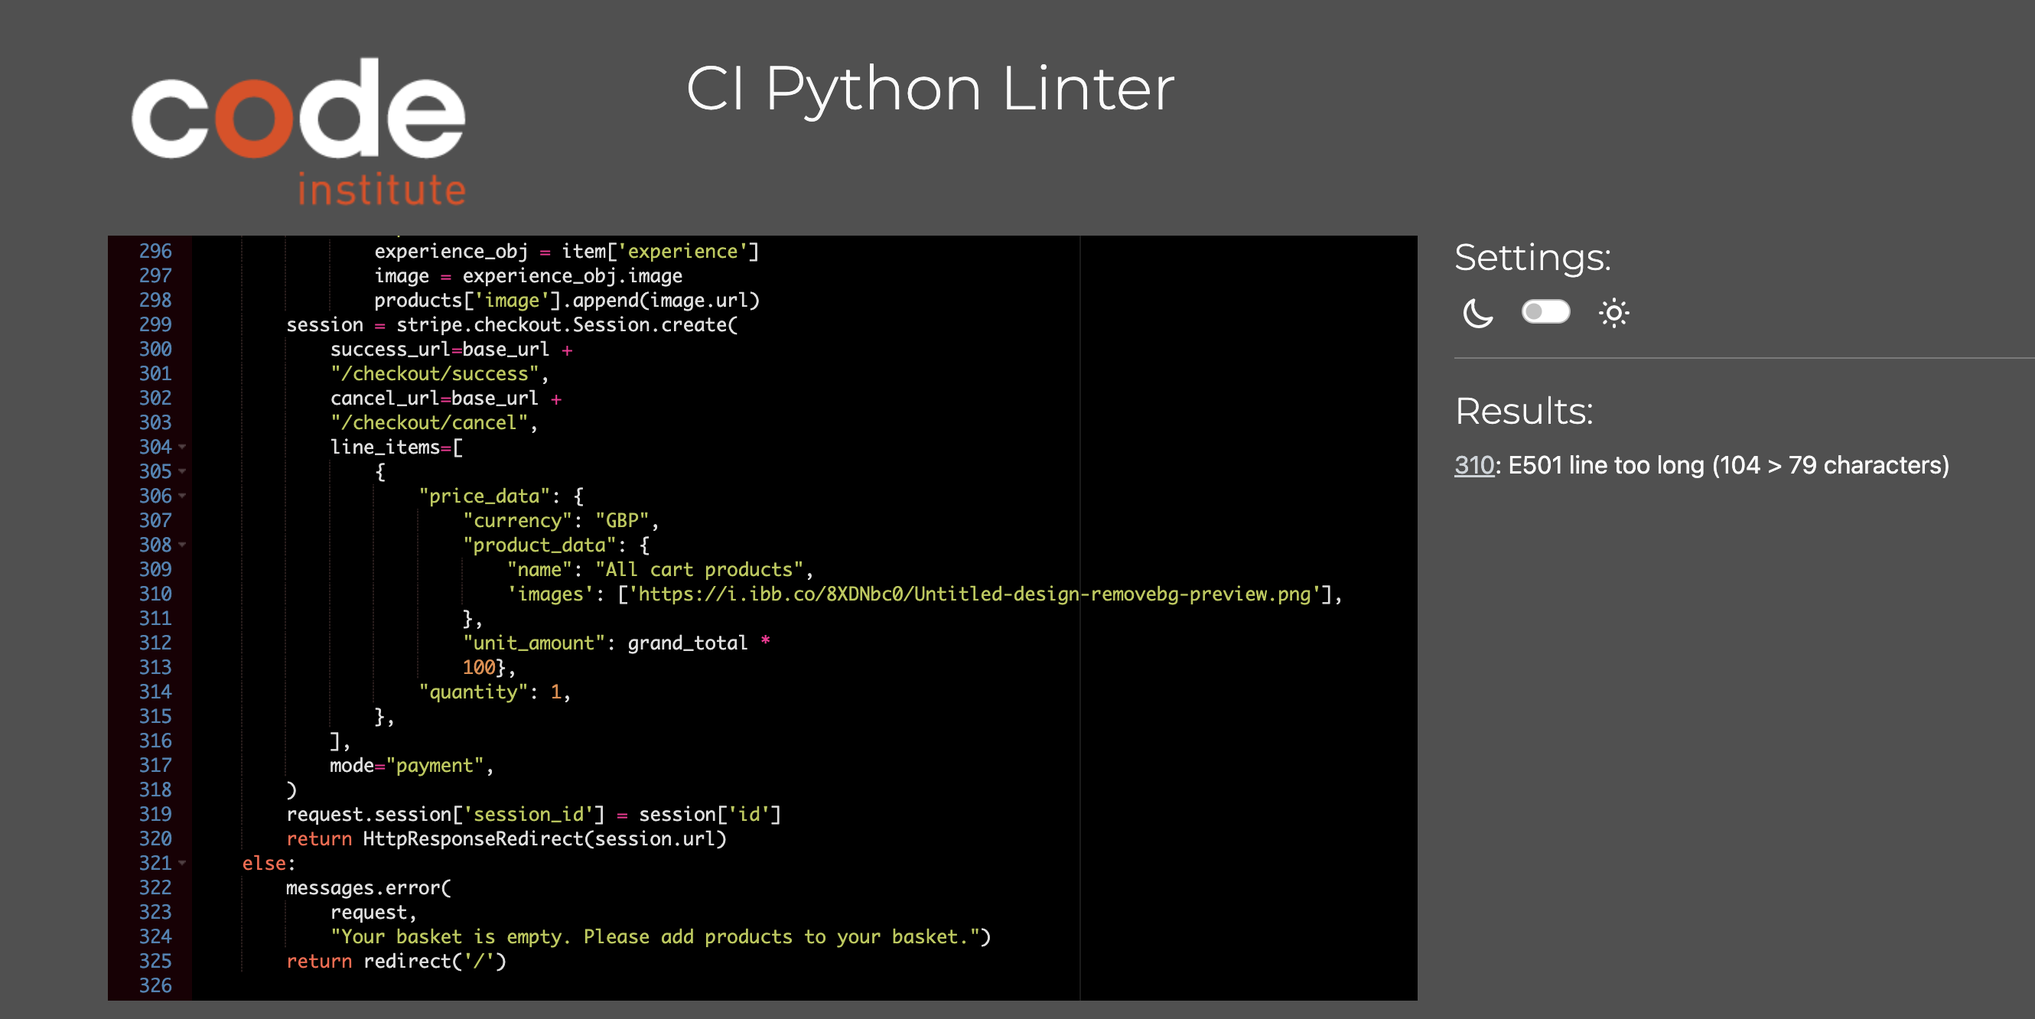
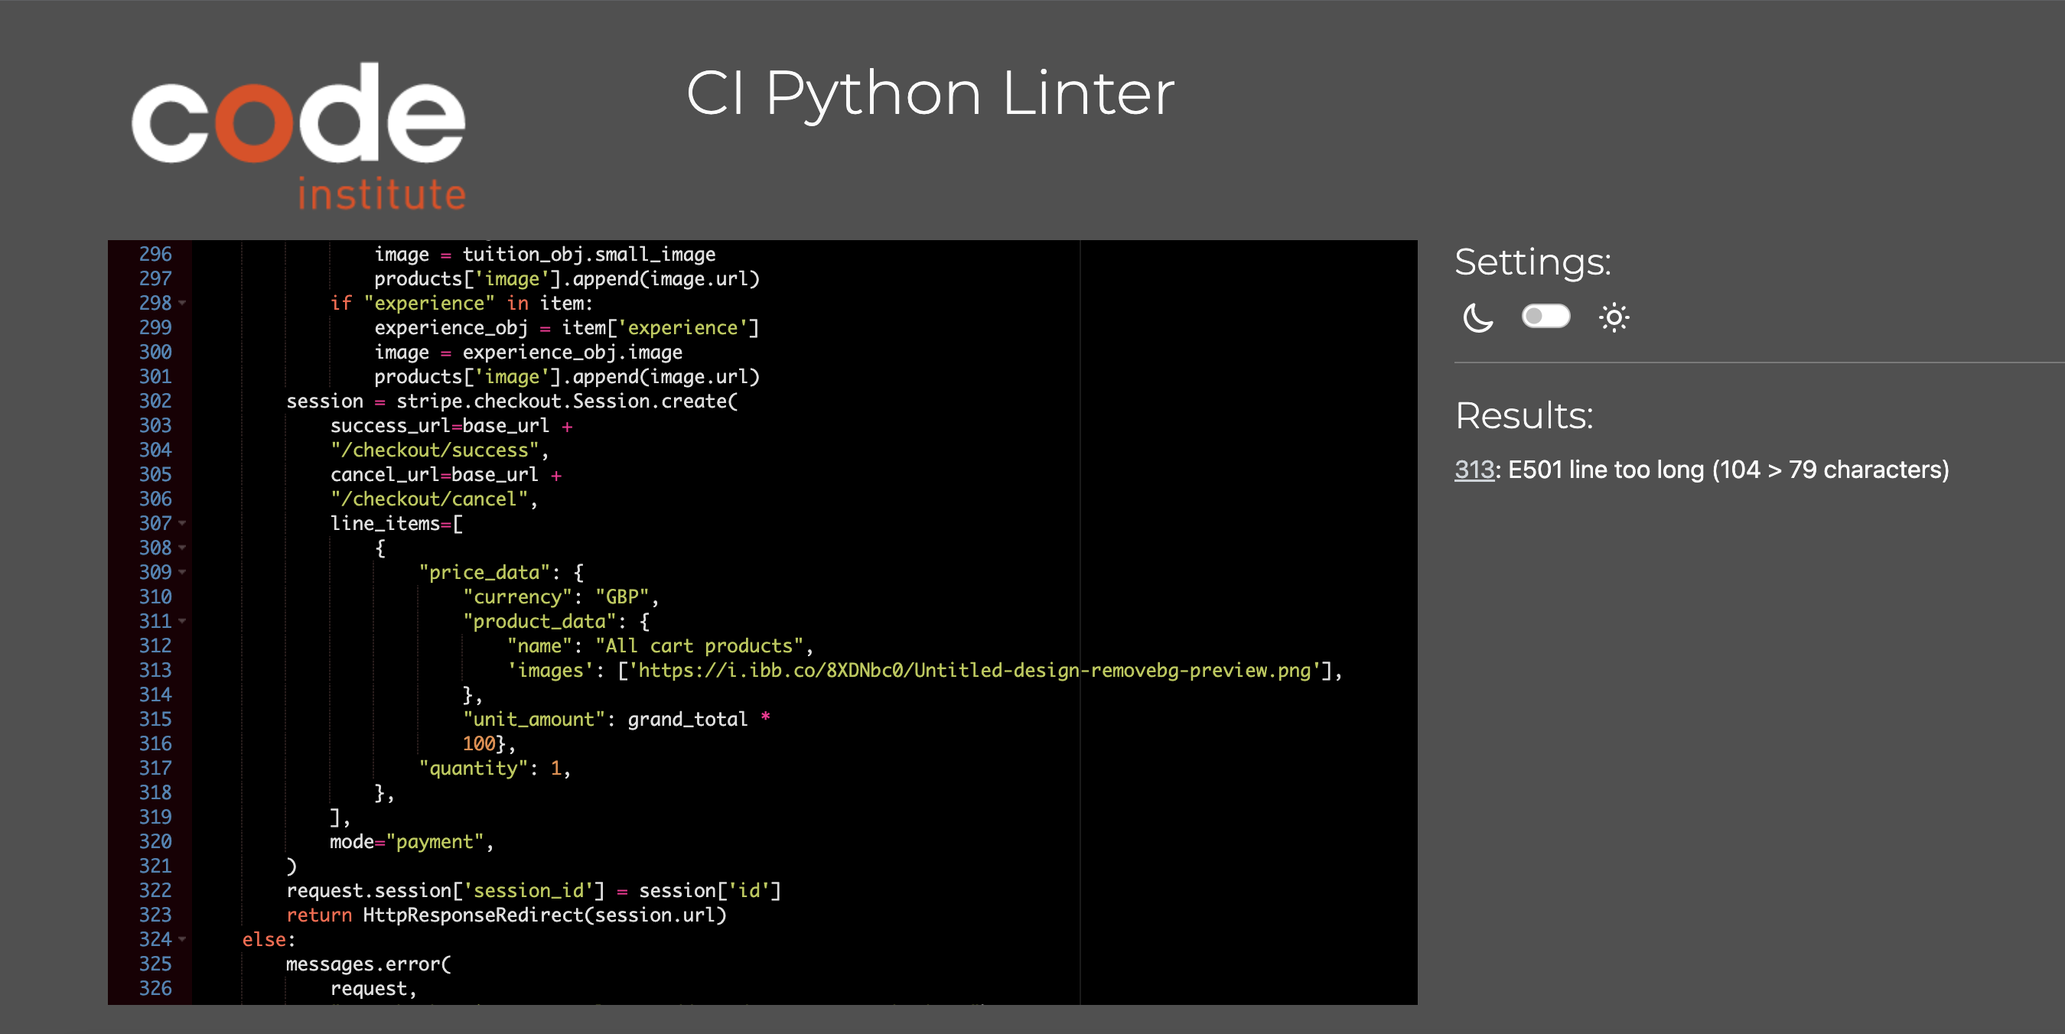
add success messages when items added to basket, add more features images, develope design section in readme

diff --git a/checkout/views.py b/checkout/views.py
@@ -115,6 +115,7 @@ def add_trackday_to_basket(request, trackday_id):
         # save the booking
         booking.save()
         quantity = 1
+        messages.success(request, "A trackday has been added to the basket.")
 
         if trackday_id in list(basket.keys()):
             basket['trackday'][trackday_id] += quantity
@@ -169,6 +170,7 @@ def add_exp_to_basket(request, experience_id):
         basket['experience'][experience_id] = quantity
 
     request.session['basket'] = basket
+    messages.success(request, "An experience has been added to the basket.")
     return redirect(redirect_url)
 
 
@@ -188,6 +190,7 @@ def add_tuition_to_basket(request, tuition_id):
         basket['tuition'][tuition_id] = quantity
 
     request.session['basket'] = basket
+    messages.success(request, "A tuition course has been added to the basket.")
     return redirect(redirect_url)
 
 

diff --git a/README.md b/README.md
@@ -344,8 +344,8 @@ Below is a comprehensive list of the site features and their relations to the us
     - has a middle nav which serves as the main navigation of the site
     - contains a company logo that redirects to the home page when clicked on
 
-    ![Top Nav]()
-    ![Middle Nav]()
+    ![Top Nav](/static/images/features/top-nav.png)
+    ![Middle Nav](/static/images/features/middle-nav.png)
 
     `` User Story: As a Site User I can use a Nav Bar so that I can Navigate to the desired page.``
 
@@ -360,7 +360,8 @@ Below is a comprehensive list of the site features and their relations to the us
     - hosts the middle nav beneath the carousel to encourage the user to scroll down the home page and see more content
     - serves as the entry page and point of reference for everything on the site
 
-    ![Home Page]()
+    ![Home Page](/static/images/features/home-top.png)
+    ![Home Page](/static/images/features/home-middle.png)
 
     `` User Story: As a Site User I can view a home page so that I can have a starting point from which I can navigate the site.``
 
@@ -375,7 +376,7 @@ Below is a comprehensive list of the site features and their relations to the us
     - Contains a prompt to sign up to the Django Raceway Newsletter
     - An up-arrow button to return to the top of the page
 
-    ![Footer]()
+    ![Footer](/static/images/features/footer.png)
 
     `` User Story: As a Site User I can view a footer bar so that I can view Policies, FAQs or subscribe to a motorsport newsletter.``
 
@@ -389,8 +390,8 @@ Below is a comprehensive list of the site features and their relations to the us
     - Contains 8 High Quality images of cars driving on track
     - Can be clicked on to open, moved to previous or next images, or closed with an 'x' 
 
-    ![Gallery]()
-    ![]()
+    ![Gallery](/static/images/features/gallery.png)
+    ![Gallery Image Open](/static/images/features/gallery-image-open.png)
 
     `` User Story: As a Site Visitor I can view a gallery of images so that I can get a visual understanding of what a track day looks like.``
 
@@ -407,11 +408,17 @@ Below is a comprehensive list of the site features and their relations to the us
     - allows users to reset their password if they have forgotten through a supplied email address
     - can keep users signed in with a checkbox option
 
+    ![Sign Up](/static/images/features/sign-up.png)
+    ![Password Reset](/static/images/features/password-reset.png)
+
     ``User Story: As a Site User I can create an account so that I can access user-verified-only benefits and store personal information for future orders.``
     - Acceptance Criteria:
         - When a site visitor is not signed in, a sign up/create account link in the nav can be found where they are redirected to a page to create an account
         - Upon account creation, they will be asked to verify through their email address that they will have had to provide.
         - No more info than is required will be asked for on sign up.
+
+    ![Login](/static/images/features/login.png)
+    ![Logout](/static/images/features/sign-out.png)
 
     ``User Story: As a Site User I can log in and log out so that I can keep my account and details secure. ``
     - Acceptance Criteria:
@@ -423,7 +430,7 @@ Below is a comprehensive list of the site features and their relations to the us
     - Describes the history of the circuit to curious site visitors
     - Inspires site visitor confidence in an experienced and responsible trackday/motorsports business
 
-    ![About Page]()
+    ![About Page](/static/images/features/about.png)
 
     `` User Story: As a Site User I can open an about page so that I can learn more about the company and its history.``
 
@@ -436,7 +443,7 @@ Below is a comprehensive list of the site features and their relations to the us
     - Asks for a full name, email, query type and a message
     - informs the user when their message has been sent successfully
 
-    ![Contact Page]()
+    ![Contact Page](/static/images/features/contact-page.png)
 
     `` User Story: As a Site User I can submit a contact form so that I can get in touch with the business regarding questions I have.``
 
@@ -451,7 +458,7 @@ Below is a comprehensive list of the site features and their relations to the us
     - Shows current trackdays up for booking in a table below, with information such as variant and base price displayed
     - Contains the links to the booking and request pages respectively
 
-    ![Trackdays]()
+    ![Trackdays](/static/images/features/trackdays.png)
 
     `` As a Site User I can visit a booking page so that I can view available/upcoming track days and proceed with a booking.``
 
@@ -466,7 +473,7 @@ Below is a comprehensive list of the site features and their relations to the us
     - allows the option of selecting extras such as car hire and paddock hire
     - users can add their trackday of choice to their basket through the add to basket button at the bottom of the page
 
-    ![Trackday booking/detail page]()
+    ![Trackday booking/detail page](/static/images/features/trackday-booking-page.png)
 
     `` User Story: As a Site User I can select the track day I want and visit a booking page so that I can book my track day with any extras I would like to add.``
 
@@ -481,7 +488,7 @@ Below is a comprehensive list of the site features and their relations to the us
     - contains a form for users to fill in to request a trackday
     - informs users when the form has been successfully submitted
 
-    ![Trackday Request Page]()
+    ![Trackday Request Page](/static/images/features/request-a-trackday.png)
 
     `` User Story: As a Site User I can use a request form so that I can request a bespoke track day booking outside of the current available options.``
 
@@ -498,7 +505,8 @@ Below is a comprehensive list of the site features and their relations to the us
     - the details page contains a description and itinerary of the day
     - price and booking button at the bottom of the page
 
-    ![Tuition]()
+    ![Tuition](/static/images/features/tuition.png)
+    ![Tuition Detail](/static/images/features/tuition-detail-example.png)
 
     `` User Story: As a Potential Customer I can view a tuition page so that I can book a day to learn core driving skills.``
 
@@ -516,7 +524,8 @@ Below is a comprehensive list of the site features and their relations to the us
     - the experience details and itinerary are displayed in the details page
     - price and booking button at the bottom of the page
 
-    ![Experiences]()
+    ![Experiences](/static/images/features/experiences.png)
+    ![Experience Detail](/static/images/features/experience-detail-example.png)
 
     `` User Story: As a Potential Customer I can view a separate experiences page so that I can order a slightly different product to a pure trackday (perhaps as a gift).``
 
@@ -532,7 +541,7 @@ Below is a comprehensive list of the site features and their relations to the us
     - shows a visually appealing list of cars for hire on the trackdays 
     - includes car images and statistics in cards
 
-    ![Car Hire List Page]()
+    ![Car Hire List Page](/static/images/features/carhire.png)
     
     `` User Story: As a Site Visitor I can view a selection of cars so that I can choose a car I might want to hire at an upcoming trackday.``
 
@@ -546,8 +555,8 @@ Below is a comprehensive list of the site features and their relations to the us
     - provides an editable form for users to insert billing information 
     - this section is based on the idea of setting billing information for a future feature of a gift store, where deliveries can be sent to a specified address
 
-    ![User Profile]()
-    ![User Profile]()
+    ![User Profile](/static/images/features/profile.png)
+    ![User Profile](/static/images/features/profile-edit.png)
 
     `` User Story: As a Registered Site User I can save details in my account profile so that I can speed up buying/delivery processes in future.``
 
@@ -559,7 +568,7 @@ Below is a comprehensive list of the site features and their relations to the us
 15. FAQs page that:
     - Contains a list of commonly asked questions that new trackday drivers may want answers to
 
-    ![FAQs Page]()
+    ![FAQs Page](/static/images/features/faqs.png)
 
     `` User Story: As a Site User I can view an FAQs page so that I can see if there are any answers to questions I might have.``
 
@@ -571,7 +580,7 @@ Below is a comprehensive list of the site features and their relations to the us
 16. Policies page that:
     - describes the company policies to users concerned about privacy and data protection
 
-    ![Policies Page]()
+    ![Policies Page](/static/images/features/policies.png)
 
     `` User Story: As a Site User I can find a policies so that I can understand the terms and conditions of the site.``
 
@@ -586,6 +595,9 @@ Below is a comprehensive list of the site features and their relations to the us
     - Has a total cost summary is available including a VAT amount for transparent total costs
     - contains a return to home button to allow users to continue browsing before checking out
 
+    ![Basket (Empty)](/static/images/features/empty-basket.png)
+    ![Basket (With item)](/static/images/features/basket-with-item.png)
+
     `` User Story: As a Site User I can add to and view a basket/cart so that I can view and check my order and make any updates or removals as required before checking out.``
 
     - Acceptance Criteria:
@@ -598,6 +610,8 @@ Below is a comprehensive list of the site features and their relations to the us
     - Allows users a quick and easy checkout process through stripe
     - contains a small form to fill out, where card info and an email address need to be supplied
 
+    ![Checkout](![Basket](/static/images/features/checkout.png)
+
     `` User Story: As a Site User I can checkout so that I can proceed with my order/booking.``
 
     - Acceptance Criteria:
@@ -608,6 +622,8 @@ Below is a comprehensive list of the site features and their relations to the us
 19. A newsletter sign up that:
     - directs users to a signup page from the footer link
     - allows users to sign up by simply supplying their email address in the form
+
+    ![Newsletter](/static/images/features/newsletter.png)
 
     `` User Story: As a Site User I can sign up to a newsletter so that I can get informed about new products or business updates.``
 
@@ -620,6 +636,8 @@ Below is a comprehensive list of the site features and their relations to the us
     - is accessed through a superuser exclusive link
     - opens a page for admins to add new trackdays
 
+    ![Add Trackday (Management Page)](/static/images/features/add-trackday.png)
+
     `` User Story: As a Site Admin I can add trackdays from a management page so that I can easily update the trackday list from the front end.``
 
     - Acceptance Criteria:
@@ -630,9 +648,13 @@ Below is a comprehensive list of the site features and their relations to the us
     - will appear if the user looks for a page that doesn't exist
     - will encourage the user to return to the home page through a home page button clearly displayed
 
+    ![Custom Error 404 Page](/static/images/features/error404-page.png)
+
 22. An Order History Page that:
     - Is available in the nav bar for users to see their order history and view their receipts
     - Is displayed neatly in a table in chronological order 
+
+    ![Order History Page](/static/images/features/order-history.png)
 
     `` User Story: As a Registered Site User I can check my order history so that I can review my past orders.``
 
@@ -646,7 +668,15 @@ Below is a comprehensive list of the site features and their relations to the us
 Django Raceway's Site features vibrant and colourful designs, inspired by racing car liveries both past and present.
 I use a lot of greens, blues and red/oranges that bare a resemblance to an automotive/racing colour.
 
+`#b8f2e2` is the main background colour you see on the site, followed by `#cedc00` for the main nav bar and some of the key buttons on the main site pages.
+The light blue colour for the background is inspired by the classic Gulf Blue historic racing livery. I have always liked this colour and I was keen to use it in the site design as it's quite a light colour. The Green for the main nav and some buttons is inspired by Aston Martin Racing Greens. Again the nice thing about the colour is that it is quite a light colour and so complements other colours on the site.
 
+See the main colour palette below:
+![Colour Palette](/static/images/features/colour-palette.png)
+
+I made use of a lot of standard Bootstrap 5 colour as well for many buttons and toasts on the site. 
+The usual Success Green, Warning Yellow, Primary Blue, Info Blue and Danger Red colours are implemented all across the site.
+They give great visual feedback to users and so I think they are a fantastic out-of-the-box solution to add relevant colour quickly.
 
 The structure of the site is based around 2 naviation menus. A top nav, where users access account or authentication related content and basket/checkout functionalities (+ the site logo, which also returns users to the home page), and a middle nav which serves as the main point of reference for the rest of the site. Both nav bars can be found on all pages, and the home page is the exception only in nav placement, with the middle nav actually being placed in the middle of the home page. I really wanted to have a carousel of track layouts as the 'hero' image for the home page, with a nav menu beneath it. I'm very glad I stuck with this design feature. 
 
@@ -654,7 +684,10 @@ There is a footer which houses two text links (to the FAQs and Policy pages), a 
 
 A lot of the other content contains some form of bootstrap card type design, such as the car hire page, experience and tuition detail pages and the trackday booking page. It puts key info in a defined container, which focuses users towards the places where you want them to. I made use of 3 separate card-like containers in the basket page to house and separate different info, where I would ideally like users to focus on different info separate from each other. 
 
+The main fonts across the website are ` 'Secular One', sans-serif; `
 
+I used this checkered flag icon as my main site logo and my favicon for the site:
+![Favicon](/static/images/favicon.ico)
 
 
 
@@ -671,7 +704,6 @@ The Facebook page will increase the reach of the business to new potential custo
 
 
 ![Django-Raceway Facebook page](/static/images/readme-images/django-raceway-facebook.png)
-
 
 
 ---
@@ -816,12 +848,13 @@ The incognito tab worked perfectly and so it was my caches that were causing the
 
 ### Current Unresolved Bugs
 
-- For some reason, the profile link in the nav bar (which appears to you once you log in) can appear to be unclickable. I have not yet found out why this is happening, but if you refresh the page, it resolves the issue every single time. 
+- For some reason, the profile link in the nav bar (which appears to you once you log in) can appear to be unclickable sometimes. I have not yet found out why this is happening, but if you refresh the page, it resolves the issue every single time. You may not even experience this issue at all, or may experience it randomly and then it won't happen again for a long time.
 I have also found out this can happen to the login link if you sign out. Again, refresh the page or click the Django Raceway logo and this will work as normal.
 
 - My Unique Constraint in my trackday model seems to work randomly at times and not at all at others. I'm still working on why this is, but seeing as only the admin/superuser can add trackdays and will know when trackdays are happening before adding them, I don't forsee this as a critical issue at the time of writing.
 
-
+- Sometimes you may need to clear your cache to access frequently visited pages, especially the checkout page, I have found.
+This can be mitigated entirely by using an incognito tab in your browser.
 ---
 
 ## Deployment
@@ -967,6 +1000,10 @@ I used this very helpful guide for importing the data from my ElephantSQL databa
 
 ### Media/Images:
 - Checkered Flags from Clipartmax: [Flag1](https://www.clipartmax.com/middle/m2H7d3N4d3i8d3i8_checkered-flag-icon-clipart-auto-racing-racing-flags-finish-flag-icon-png/), [Flag2](https://www.clipartmax.com/middle/m2i8G6Z5H7d3A0G6_finish-flag-race-racing-win-winner-finish-checkered-flag-icon-png/)
+
+- Main Track image on which I drew the 3 layouts: [Track Design Original](https://imgur.com/a/m44IV)
+
+- I visited [Coolors](https://coolors.co/d2dac3-c9dfec-343f5c-ffffff-000000) to generate a visualised colour palette.
 
 - Photographs in the Gallery:
     - [Porsche Trackday pic](https://www.porscheclubgb.com/news-and-events/news/2021/december/2022-porsche-club-gb-trackday-calendar-announced)

diff --git a/TESTING.md b/TESTING.md
@@ -42,7 +42,16 @@ To test the checkout payments with card details in test mode, I used the followi
 - 4000000000009995: for card with insufficient funds
 - 4000000000000002: for testing card declined
 
-I used the above to successfully test Stripe and I am happy to say it is working as expected
+I used the above to successfully test Stripe and I am happy to say it is working as expected.
+
+<details><summary> Card Number Demos</summary>
+
+![Visa](/static/images/readme-images/validation-images/card-visa-number.png) ![Visa Debit](/static/images/readme-images/validation-images/card-visa-debit-number.png)
+![Insufficient funds](/static/images/readme-images/validation-images/card-insufficient-funds-number.png) ![Card declined](/static/images/readme-images/validation-images/card-declined-number.png)
+
+</details>
+
+<br></br>
 
 ### Home/Index/Middle-Navigation
 | Test | Method | Expected Outcome | Result |
@@ -569,7 +578,7 @@ All Python validation was checked through Code Institute's PEP8 Python Linter. Y
 | helpers.py | PASS |
 | tests.py |  |
 
-* Line 310 in views.py reads as too long, however, for reliability I have opted to leave this
+* Line 313 in views.py reads as too long, however, for reliability I have opted to leave this
 in as it can cause issues in deployment when concatenated as it is an image url. I believe this is
 a sensible and reasonable precaution to take for site reliability in conjunction with stripe.
 See further explanation below.
@@ -644,7 +653,7 @@ See further explanation below.
 
 ### Current Python Errors/Issues/Explanations:
 
-- Only 1 known python linting issue across the entire workspace, being that of line 310 in /checkout/views.py where a line is too long.
+- Only 1 known python linting issue across the entire workspace, being that of line 313 in /checkout/views.py where a line is too long.
 Due to this being a url, and a pretty specific one from Stripe as well, I opted to follow best practice and to leave it as is for this one exception in order 
 to ensure reliability of the checkout on the site. I believe reliability takes priority over anything else.
 I am very much following [this Principal](https://peps.python.org/pep-0008/#a-foolish-consistency-is-the-hobgoblin-of-little-minds)
@@ -686,9 +695,9 @@ Lighthouse Screeshot here: xxxxxxxxxxxxxx
 
 ## Current known and unresolved issues
 
-- As documented in the outstanding bugs section in the readme, there is an (as of writing) unresolved bug where when you sign in or log out, the sign in and log out buttons appear to not be clickable. This is always able to be fixed by either refreshing the page or clicking on to another link/page. Alternatively, click on the site logo (which redirects to the home page anyway) to clear this bug. 
+- As documented in the outstanding bugs section in the readme, there is an (as of writing) unresolved bug where when you sign in or log out, the sign in and log out buttons can appear to not be clickable. This is always able to be fixed by either refreshing the page or clicking on to another link/page. Alternatively, click on the site logo (which redirects to the home page anyway) to clear this bug. This may not happen to you at all or it may happen to you randomly.
 - My Trackday Constraint in my Trackday model appears to not work realiably. I have tried various combinations of the code, tried to reformat it countless times and tried to use it in conjunction with adding ` unique=True` in the fields that are supposed to work with it. I have yet to resolve this issue and will aim to do so in a future update.
-- 
+- If you visit the site too often, you may find you need to hard refresh or clear the cache on some pages, especially the checkout page I find. This can be avoided entirely by using an incognito tab in your browser.
 
 
 --- 
